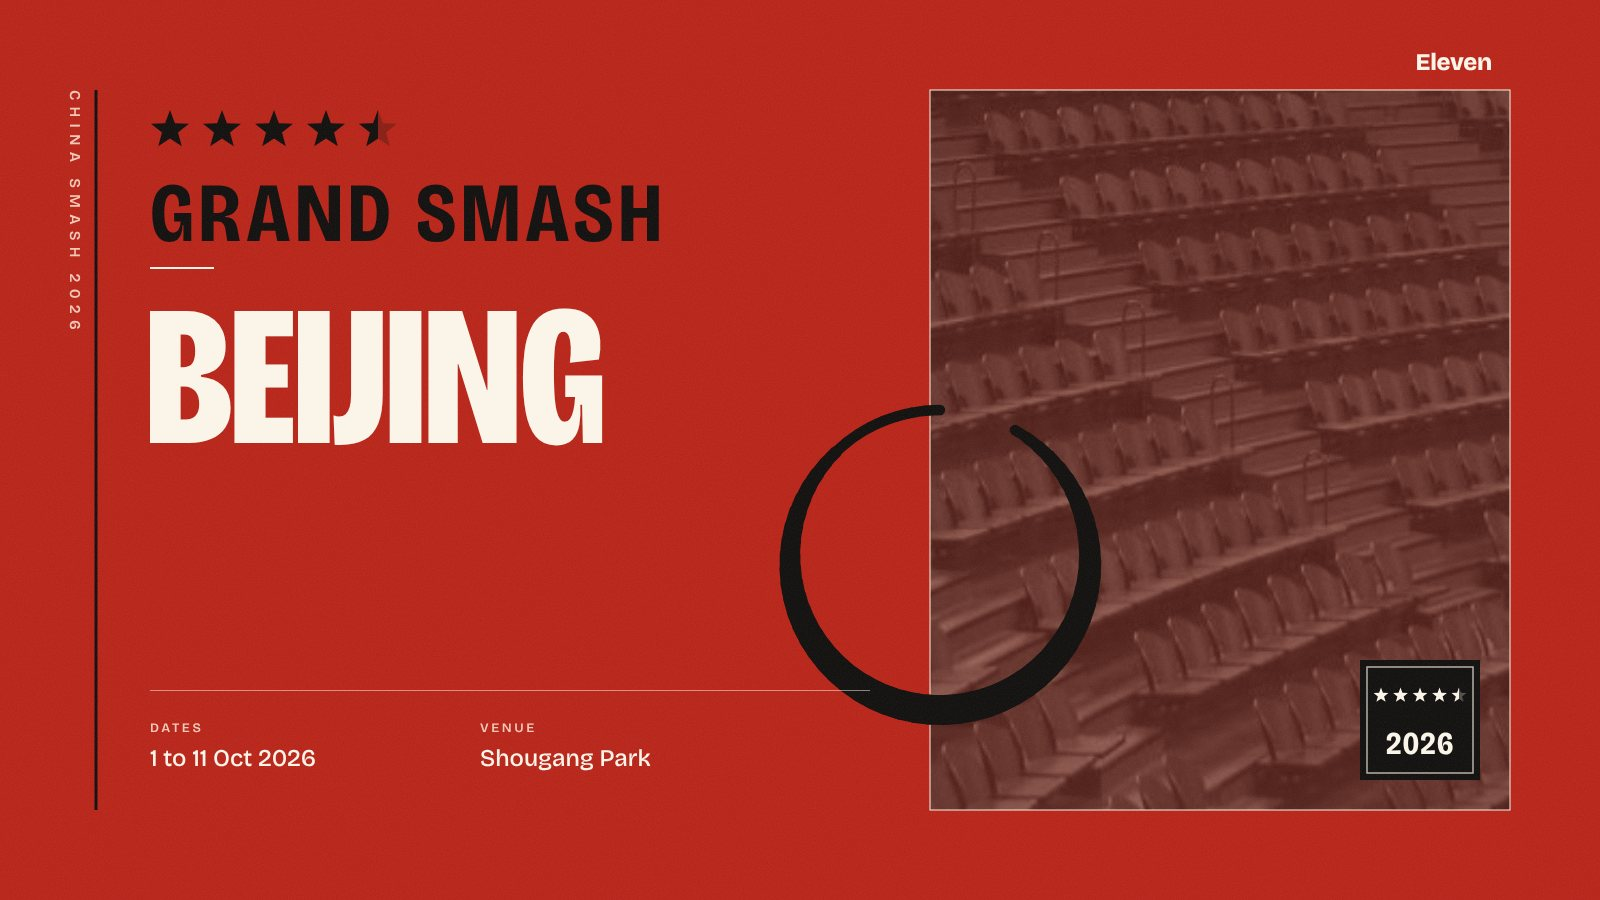
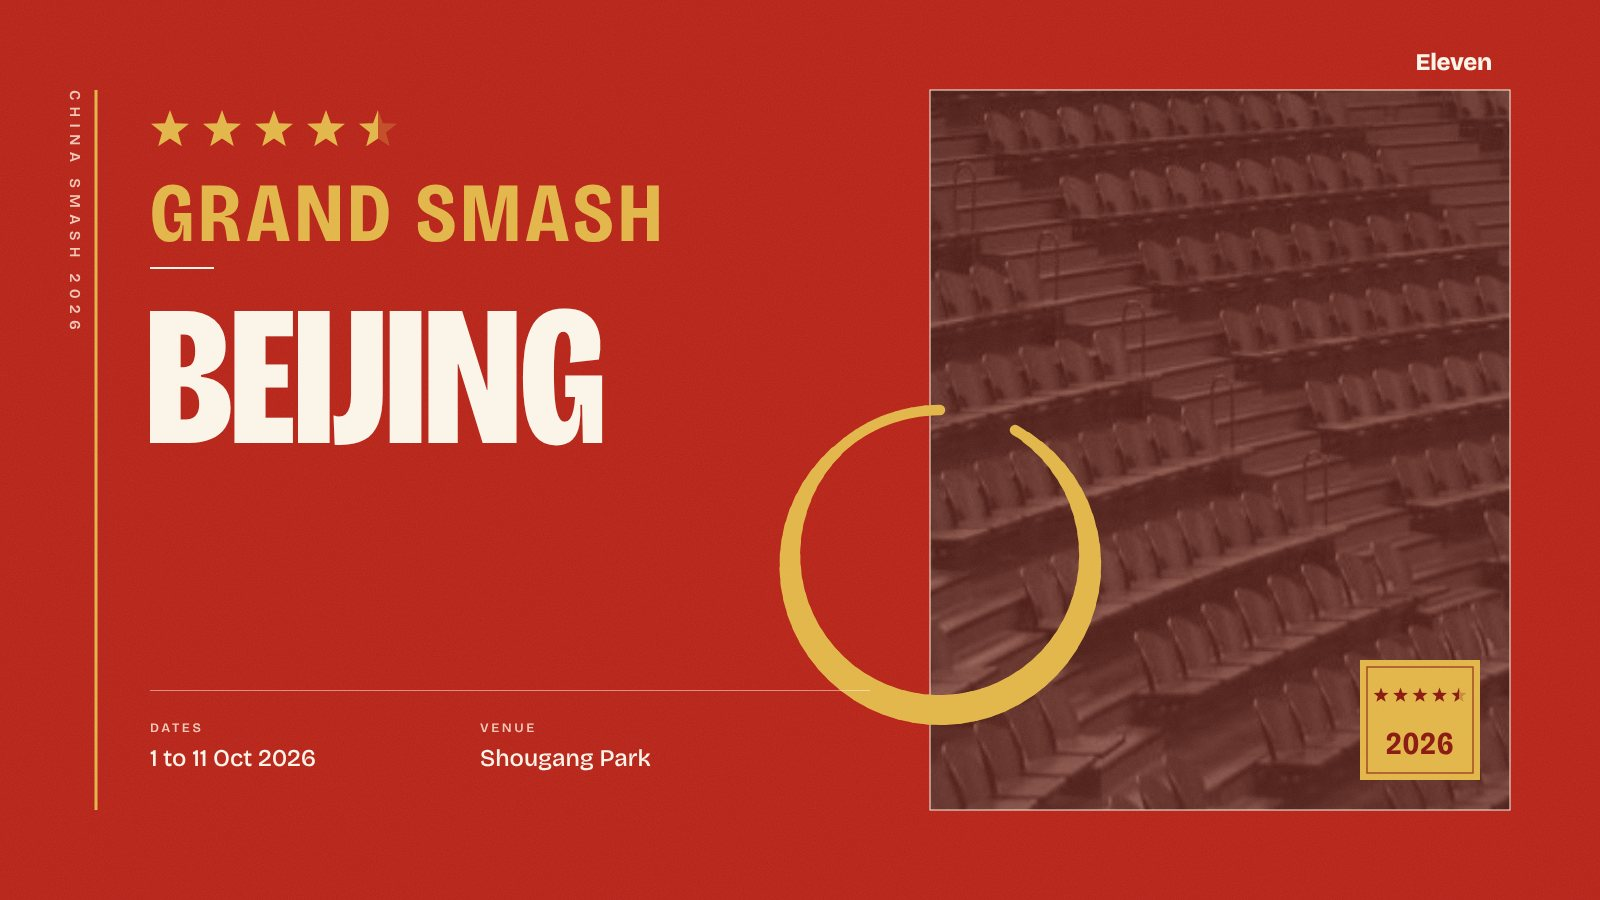
Posters: Grand Smashes in host flag colours, 5-star events in black and gold with a turned-round layout and the floodlights photo
Claude-Session: https://claude.ai/code/session_01KHw4UwjXv4GHFy3UrAuNDX

diff --git a/tools/poster_tiers.py b/tools/poster_tiers.py
@@ -119,8 +119,22 @@ def laurel(cx, cy, r, fill):
     return "".join(out)
 
 
+FLOODLIGHTS = "hall-lights.jpg"   # kept for 5-star events: every one uses it, and no Grand Smash does
+SMASH_PHOTOS = {"smash_china": "dome-seats.jpg", "smash_europe": "seats-rows.jpg", "smash_usa": "stadium-seats.jpg", "smash_singapore": "seats-blue.jpg"}
+
+
 def _photo(ev):
-    return P._variant(ev)[4]
+    n = stars(ev)
+    if n == 5:
+        return FLOODLIGHTS
+    photo = P._variant(ev)[4]
+    if n == 4.5:
+        # each Smash keeps its own photo, never the floodlights
+        photo = SMASH_PHOTOS.get(smash_scheme(ev), photo)
+        if photo == FLOODLIGHTS:
+            others = [k for k in P.PHOTOS if k != FLOODLIGHTS]
+            photo = others[sum(map(ord, ev.get("id", ""))) % len(others)]
+    return photo
 
 
 def _mono(uid, dark, light, key="mono", contrast=1.0):

diff --git a/tools/posters.py b/tools/posters.py
@@ -451,7 +451,7 @@ def look(ev):
     if ev.get("look"):
         return ev["look"]
     if tiered(ev):
-        return {3: "three", 4: "four", 4.5: "five_vermilion", 5: "five_lacquer"}.get(poster_tiers.stars(ev), "ticket")
+        return {3: "three", 4: "four", 4.5: "five_vermilion", 5: "five_mirror"}.get(poster_tiers.stars(ev), "ticket")
     s, tier = ev.get("series", ""), ev.get("tier")
     if tier == "smash":
         return "arena"
@@ -722,6 +722,8 @@ def tile_for(ev, uid):
     lk = look(ev)
     if lk == "five_lacquer":
         return poster_tiers.square_lacquer(ev, uid)
+    if lk == "five_mirror":
+        return poster_tiers.square_mirror(ev, uid)
     if lk == "five_vermilion":
         return poster_tiers.square_vermilion(ev, uid)
     if lk in ("three", "four", "five"):

diff --git a/UPDATE.md b/UPDATE.md
@@ -47,7 +47,7 @@ The site is static. All content lives in `data/news.json`; `index.html`, `styles
      2. Otherwise, the newest significant story leads, ranked first by the event's prestige tier, then by how recent it is.
      3. No story stays as the lead for more than about 24 hours if anything comparable has happened since.
      4. When the best men's and women's stories are of similar weight, alternate between them so neither side holds the lead slot run after run. Check which side the previous lead covered.
-   - Event hubs: major tournaments have a hub page built from `data/events.json` (`/events/<id>.html`) with Eleven's poster, results, draw, schedule, videos and news. Set `"event": "<hub id>"` on every story and article about a hub event; its results, videos and links then appear on the hub automatically, and the poster becomes the lead image unless there is official video or a suitable photo. Add a hub for each WTT Champions, WTT Star Contender, WTT Finals, Grand Smash, World Cup, World Championships, Olympic and continental championship event at least two weeks before it starts (`id`, `schedule_id` matching `data/schedule.json`, `name` as used in headlines, `group` "WTT Series", "Majors" or "Continental", `tier` from the poster tiers in `tools/posters.py`, `series`, `city`, `country`, `year`, `start`, `end`, optional `venue` only if confirmed, `events`, `coords`, `draw` once published, `live: true` for WTT events). For continental championships also set `region` ("Asia", "Americas", "Europe", "Africa" or "Oceania"), which gives each continent its own poster colour. Always append new hubs to the end of `events`: `tools/posters.py` picks each poster's photo, accent colours and layout so that no two posters look alike, working through the file in order, so appending keeps existing posters unchanged. Then run `python3 tools/posters.py <hub id>` to render `img/posters/<hub id>.jpg` (wide) and `img/posters/<hub id>-sq.jpg` (square, used on phones and in small slots) and commit both. From 2026 every event poster is star-rated and names its competition type as the headline (`tools/poster_tiers.py`): Feeder 1 star and Contender 2 (paper ticket; Feeders always grey), Star Contender 3 (photo strip and colour field), WTT Champions, WTT Finals and continental events 4 (dark, framed; the Finals always gold), Grand Smash 4.5 (the same layout in all-red "vermilion" with black stars), World Cup, World Championships and Olympics 5 (the black 'lacquer' look with red stars, brush circle and seal; Worlds and Olympics add the laurel emblem). Contenders, Star Contenders, Champions and continental events rotate through `ROTATION` in `tools/posters.py` so neighbouring posters differ. The schedule shows the same stars. Older events keep their original looks, described next. Each kind of event has its own poster look, chosen from its `tier` and `series` (`look()` in `tools/posters.py`): world events the paper-and-photo grid, Grand Smashes the night arena, WTT Champions and Finals the table in perspective (Finals in gold), Star Contenders a photo strip beside a colour field, Contenders and Feeders a ticket (Feeders in orange), continental championships and Games an atlas with the host city marked (needs `coords`). All keep Eleven's wordmark, type, two-colour bar and grain. New photos go in `img/posters/photos/` and must be added to `PHOTOS` in `tools/posters.py` with the photographer and page (Unsplash Licence or CC0 only, no event branding visible). Illustrations stay for stories not tied to an event (equipment, features, rule changes).
+   - Event hubs: major tournaments have a hub page built from `data/events.json` (`/events/<id>.html`) with Eleven's poster, results, draw, schedule, videos and news. Set `"event": "<hub id>"` on every story and article about a hub event; its results, videos and links then appear on the hub automatically, and the poster becomes the lead image unless there is official video or a suitable photo. Add a hub for each WTT Champions, WTT Star Contender, WTT Finals, Grand Smash, World Cup, World Championships, Olympic and continental championship event at least two weeks before it starts (`id`, `schedule_id` matching `data/schedule.json`, `name` as used in headlines, `group` "WTT Series", "Majors" or "Continental", `tier` from the poster tiers in `tools/posters.py`, `series`, `city`, `country`, `year`, `start`, `end`, optional `venue` only if confirmed, `events`, `coords`, `draw` once published, `live: true` for WTT events). For continental championships also set `region` ("Asia", "Americas", "Europe", "Africa" or "Oceania"), which gives each continent its own poster colour. Always append new hubs to the end of `events`: `tools/posters.py` picks each poster's photo, accent colours and layout so that no two posters look alike, working through the file in order, so appending keeps existing posters unchanged. Then run `python3 tools/posters.py <hub id>` to render `img/posters/<hub id>.jpg` (wide) and `img/posters/<hub id>-sq.jpg` (square, used on phones and in small slots) and commit both. From 2026 every event poster is star-rated and names its competition type as the headline (`tools/poster_tiers.py`): Feeder 1 star and Contender 2 (paper ticket; Feeders always grey), Star Contender 3 (photo strip and colour field), WTT Champions, WTT Finals and continental events 4 (dark, framed; the Finals always gold), Grand Smash 4.5 (photo on the right, brush circle and seal, in the host's flag colours: China red and gold, Europe blue and gold, United States navy, red and white, Singapore split red over white like its flag; never the floodlights photo), World Cup, World Championships and Olympics 5 (black and gold, the Smash layout turned round with the photo on the left, always the floodlights photo `hall-lights.jpg`; Worlds and Olympics add the laurel emblem). Contenders, Star Contenders, Champions and continental events rotate through `ROTATION` in `tools/posters.py` so neighbouring posters differ. The schedule shows the same stars. Older events keep their original looks, described next. Each kind of event has its own poster look, chosen from its `tier` and `series` (`look()` in `tools/posters.py`): world events the paper-and-photo grid, Grand Smashes the night arena, WTT Champions and Finals the table in perspective (Finals in gold), Star Contenders a photo strip beside a colour field, Contenders and Feeders a ticket (Feeders in orange), continental championships and Games an atlas with the host city marked (needs `coords`). All keep Eleven's wordmark, type, two-colour bar and grain. New photos go in `img/posters/photos/` and must be added to `PHOTOS` in `tools/posters.py` with the photographer and page (Unsplash Licence or CC0 only, no event branding visible). Illustrations stay for stories not tied to an event (equipment, features, rule changes).
    Every story in `data/news.json` is either the homepage card for a full article (see Length below) or a quick update: a headline and a one-sentence `summary`. Give every new story a `published` time (current UTC time, ISO format, to the minute, spaced a few minutes apart when adding several).
    - **Quick updates** (`"kind": "Update"`) are for news that is real but short: a confirmed withdrawal, a late schedule change, a single result, a federation announcement, a squad selection, a league result with only a few verified facts. Don't hold back a verified story because it can't reach 400 words, and don't pad it. Use a quick update whenever the verified material supports only a few paragraphs. As a guide, keep full articles (400 words or more) as a healthy share of what a run publishes, around half or more over a week; the rest can be quick updates. There is no daily cap, but never use a quick update for something that will be covered by that day's preview or review, and fold several small items from one event into one quick update or the review rather than posting each separately. Give it a `summary` and a `body` of one to four short paragraphs, with `sources`. It gets its own page labelled "Quick update", which is kept out of Google (`noindex`) and the sitemaps automatically. When more material arrives, turn it into a full article (same story `id`, add the article file) rather than adding a second story.
 
